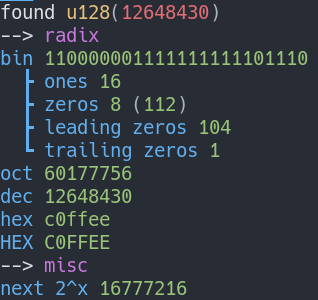
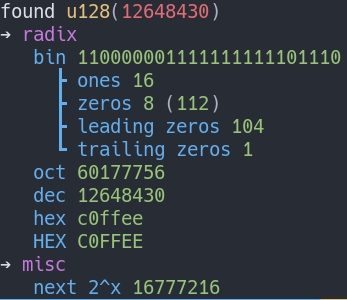
v0.3.1

diff --git a/CHANGELOG.md b/CHANGELOG.md
@@ -3,6 +3,10 @@ All notable changes to this project will be documented in this file.
 The format is based on [Keep a Changelog](http://keepachangelog.com/en/1.0.0/)
 and this project adheres to [Semantic Versioning](http://semver.org/spec/v2.0.0.html).
 
+## [0.3.1] - 2018-09-07
+### Changed
+- `➔` instead of `-->`, `x` instead of `--x` and indentation
+
 ## [0.3.0] - 2018-09-01
 ### Changed
 - A lot more information about strings, including grapheme clusters and words.
